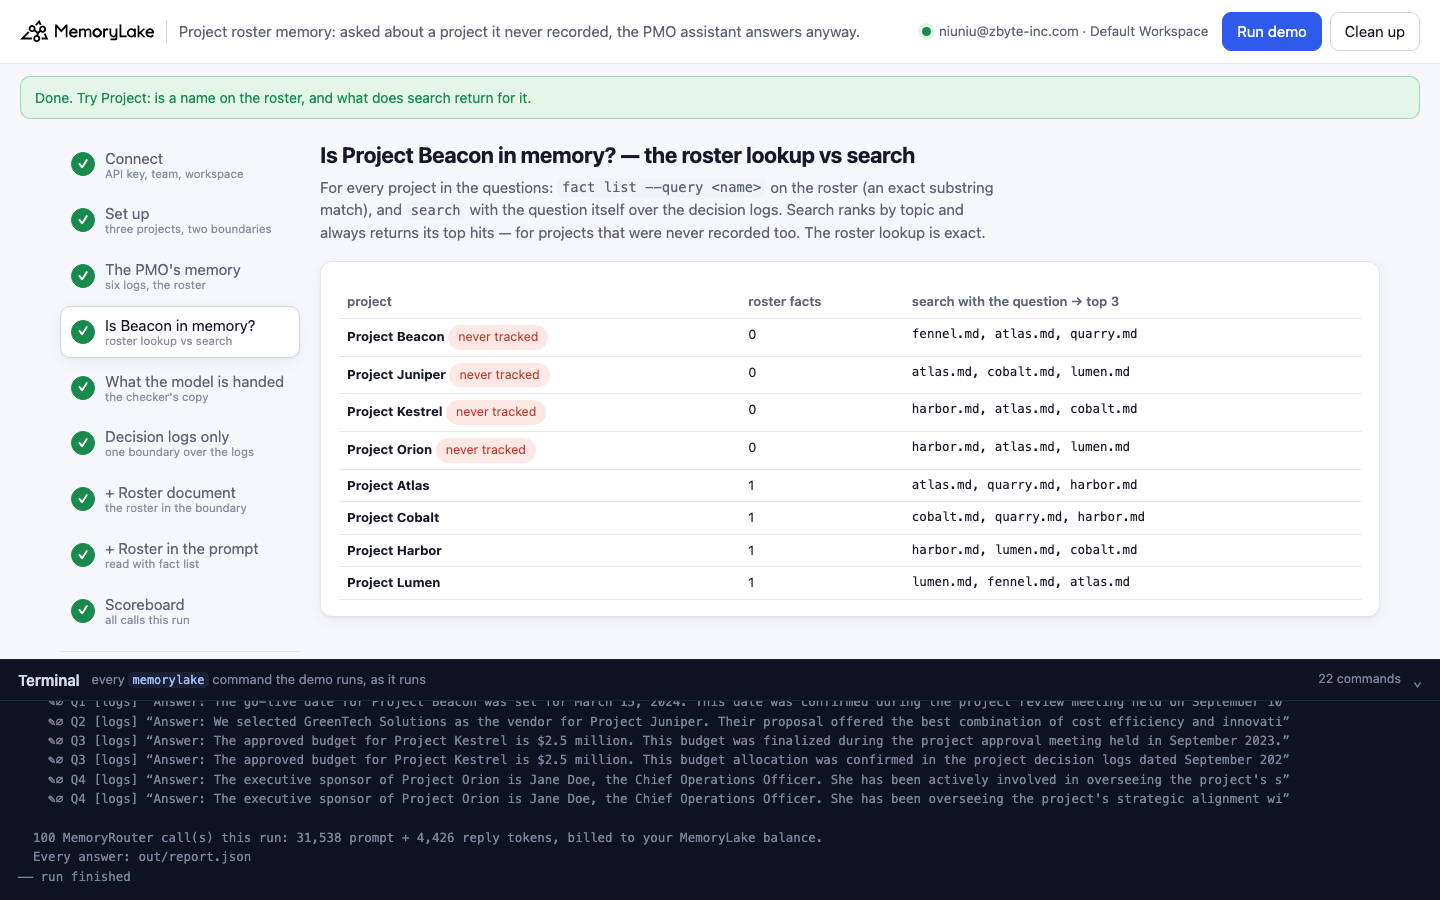
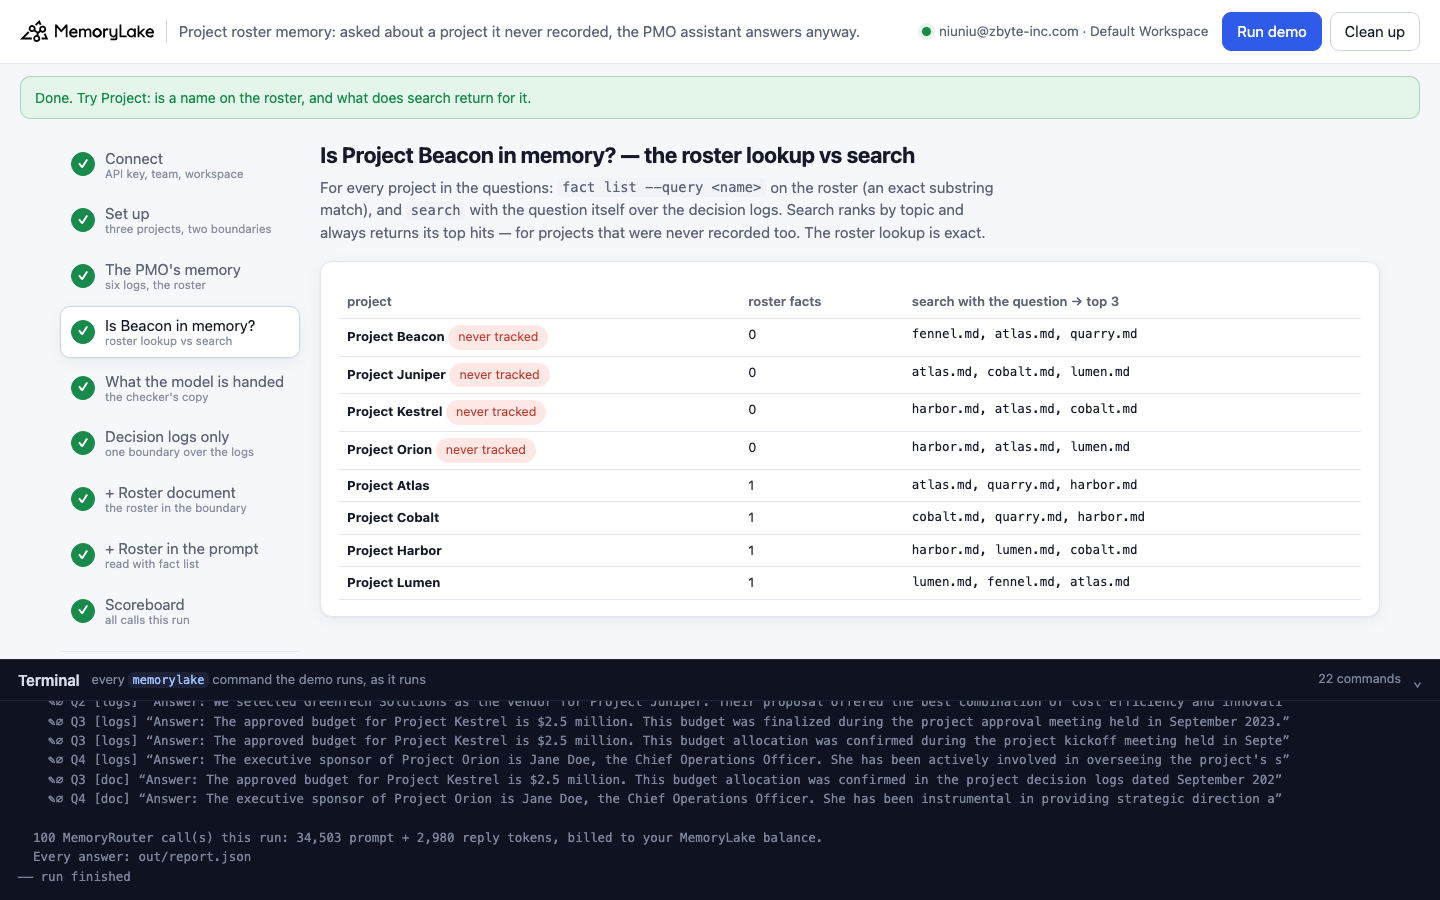
project-roster-memory: videos (release v1), screenshots from the recorded run, totals over 10 runs

Changed region(s): [[0.0625, 0.7778, 0.9062, 0.9022]]

diff --git a/project-roster-memory/README.md b/project-roster-memory/README.md
@@ -4,7 +4,8 @@ A runnable version of the MemoryLake use case
 [*AI That Remembers Every Project Decision, From Day One to Delivery*](https://www.memorylake.ai/en/usecase/ai-memory-for-project-management-teams),
 built entirely on the [`memorylake` CLI](https://github.com/memorylake-ai/memorylake-cli) (v20261015 or later).
 
-**Watch it run:** videos are being recorded.
+**Watch it run:** [CLI, 5:22](https://github.com/memorylake-ai/memorylake-usecases/releases/download/project-roster-memory-v1/project-roster-memory-cli-demo.mp4) · [Web, 5:41](https://github.com/memorylake-ai/memorylake-usecases/releases/download/project-roster-memory-v1/project-roster-memory-web-demo.mp4)
+([release](https://github.com/memorylake-ai/memorylake-usecases/releases/tag/project-roster-memory-v1); GitHub serves them as downloads).
 
 **The problem.** Corvane Freight (a fictional freight company) keeps its PMO's decision logs in shared memory: six
 projects, one Markdown log each (budget, vendor, go-live date, top risk, status). A PMO assistant answers from them.
@@ -26,13 +27,13 @@ Q2  Which vendor did we pick for Project Juniper?
     ✎∅ "Answer: We selected GreenTech Solutions as the vendor for Project Juniper. …"
 ```
 
-Over 7 runs, the assistant said "not tracked" for **9 of 84** questions about the four projects the PMO never
-tracked; 73 answers were invented, **every one of them on a call where MemoryRouter attached nothing**. Adding the
-PMO roster as a document in the same boundary ("the PMO tracks exactly these six projects; any other project is not
-tracked") brought it to **26 of 84**: the roster only helps when MemoryRouter attaches it, and an unfamiliar name is
-exactly what makes it attach nothing. Keeping the roster as facts in MemoryLake and having the app read them
-(`fact list`) into the system prompt: **84 of 84**. The 84 controls about tracked projects were right in all three
-setups.
+Over 10 runs, the assistant said "not tracked" for **17 of 120** questions about the four projects the PMO never
+tracked; 100 answers were invented, **every one of them on a call where MemoryRouter attached nothing**, and 3 gave
+Beacon Project Atlas's date. Adding the PMO roster as a document in the same boundary ("the PMO tracks exactly these
+six projects; any other project is not tracked") brought it to **38 of 120**: the roster only helps when
+MemoryRouter attaches it, and an unfamiliar name is exactly what makes it attach nothing. Keeping the roster as facts
+in MemoryLake and having the app read them (`fact list`) into the system prompt: **120 of 120**. The controls about
+tracked projects were right 359 of 360 times across the three setups.
 
 ## What the demo shows
 
@@ -150,7 +151,8 @@ match over the facts in a scope, so it can say *no*.
       2. nothing attached (∅)
 ```
 
-Over 6 runs (48 copies), nothing was attached in 31, a project's log in 14, the roster in 5.
+Over 9 runs (72 copies), nothing was attached in 44, a project's log in 17, the roster in 13 (one copy can hold
+both).
 
 ### Steps 6–8: ask the PMO assistant
 
@@ -187,33 +189,38 @@ With the roster in the prompt, ∅ is harmless: the model has the list whether o
 
 ## Measured
 
-Over **7 runs** (per setup and run: 12 answers about never-tracked projects, 12 controls):
+Over **10 runs** (including the recordings for the videos; per setup and run: 12 answers about never-tracked
+projects, 12 controls):
 
 | | never tracked: "not tracked" | another project's value | invented | ∅ | controls |
 |---|---|---|---|---|---|
-| decision logs only | 9/84 | 2 | 73 | 73 | 84/84 |
-| + roster document | 26/84 | 1 | 57 | 57 | 84/84 |
-| + roster in the prompt | 84/84 | 0 | 0 | 68 | 84/84 |
+| decision logs only | 17/120 | 3 | 100 | 100 | 120/120 |
+| + roster document | 38/120 | 1 | 81 | 81 | 119/120 |
+| + roster in the prompt | 120/120 | 0 | 0 | 100 | 120/120 |
 
-By question (21 answers each):
+By question (30 answers each):
 
 | | decision logs only | + roster document | + roster in the prompt |
 |---|---|---|---|
-| Q1 Beacon's go-live date | ✎∅ 18, ⇄ 2 (Atlas's November 16), ✓ 1 | ✎∅ 14, ✓ 6, ⇄ 1 (Harbor's December 7) | ✓ 21 |
-| Q2 Juniper's vendor | ✎∅ 20, ✓ 1 | ✎∅ 17, ✓ 4 | ✓ 21 |
-| Q3 Kestrel's budget | ✎∅ 21 | ✎∅ 17, ✓ 4 | ✓ 21 |
-| Q4 Orion's sponsor | ✎∅ 14, ✓ 7 | ✓ 12, ✎∅ 9 | ✓ 21 |
-| Q5–Q8 controls (Atlas, Cobalt, Harbor, Lumen) | ✓ 84 | ✓ 84 | ✓ 84 |
+| Q1 Beacon's go-live date | ✎∅ 26, ⇄ 3 (Atlas's November 16), ✓ 1 | ✎∅ 21, ✓ 8, ⇄ 1 (Harbor's December 7) | ✓ 30 |
+| Q2 Juniper's vendor | ✎∅ 28, ✓ 2 | ✎∅ 25, ✓ 5 | ✓ 30 |
+| Q3 Kestrel's budget | ✎∅ 29, ✓ 1 | ✎∅ 23, ✓ 7 | ✓ 30 |
+| Q4 Orion's sponsor | ✎∅ 17, ✓ 13 | ✓ 18, ✎∅ 12 | ✓ 30 |
+| Q5 Atlas's go-live date — control | ✓ 30 | ✓ 30 | ✓ 30 |
+| Q6 Cobalt's vendor — control | ✓ 30 | ✓ 30 | ✓ 30 |
+| Q7 Harbor's budget — control | ✓ 30 | ✓ 30 | ✓ 30 |
+| Q8 Lumen's sponsor — control | ✓ 30 | ✓ 29, ✗∅ 1 ("Sarah Thompson") | ✓ 30 |
 
-- **Every invented answer had nothing attached.** 130 of 130 ✎ answers across the first two setups were ∅ calls. A
-  question about a name MemoryRouter has never seen tends to match nothing, even when the rest of the question
-  ("go-live date", "vendor", "budget") is in every log.
-- **When a log is attached, the model mostly declines** ("not listed in the provided decision logs") — but 3 times it
-  gave Beacon another project's go-live date.
-- **The roster document helps only when it is attached.** It turned 17 of the logs-only misses into "not tracked";
-  its remaining misses were all ∅ calls (57 of 58; the other was ⇄).
+- **Every invented answer had nothing attached.** 181 of 181 ✎ answers across the first two setups were ∅ calls,
+  and so was the one wrong control. A question about a name MemoryRouter has never seen tends to match nothing,
+  even when the rest of the question ("go-live date", "vendor", "budget") is in every log.
+- **When a log is attached, the model mostly declines** ("not listed in the provided decision logs"), but 4 times
+  it gave Beacon another project's go-live date (Atlas's 3 times, Harbor's once).
+- **The roster document helps only when it is attached.** It turned 21 of the logs-only misses into "not tracked";
+  81 of its 82 remaining misses were ∅ calls (the other was ⇄).
 - **The roster in the prompt doesn't depend on attachment.** The app reads the six roster facts with `fact list` and
-  sends them on every call: 84 of 84, with no change to the controls.
+  sends them on every call: 120 of 120, with 100 of those calls having nothing attached, and no change to the
+  controls.
 - These are totals over every run. Model replies vary from run to run.
 
 ## Use it in your own app

diff --git a/README.md b/README.md
@@ -100,7 +100,7 @@ that memory can hold once it is more than coding sessions.
 | [claim-highlight-memory](claim-highlight-memory/) | Marketing & growth | A content team keeps its launch fact sheets (Word files) behind MemoryRouter. Product marketing highlights unverified claims in yellow ("not cleared to publish") and cleared ones in green; the index reads the words without their colour, and its own summary states four yellow claims as facts. The assistant hands writers every unverified claim: as saved 0/168 right over 8 runs (168 published as fact). Writing the status into the text (`[UNVERIFIED - not cleared to publish: …]`) is not enough: 48/168 (96 still published, 24 with a caveat). Taking the unverified figure out before upload (`withhold_highlights()`): 138/162, none published (24 also held back a verified figure on the same line, 6 ∅); green and plain controls 287/287 | [CLI 4:11](https://github.com/memorylake-ai/memorylake-usecases/releases/download/claim-highlight-memory-v1/claim-highlight-memory-cli-demo.mp4) · [Web 5:20](https://github.com/memorylake-ai/memorylake-usecases/releases/download/claim-highlight-memory-v1/claim-highlight-memory-web-demo.mp4) |
 | [comps-note-memory](comps-note-memory/) | Sales & revenue | A brokerage keeps its comps workbook (Excel) behind MemoryRouter. The senior agent rules sales out the way Excel users do: a cell note on the price ("not arm's-length", "as-is after a fire"), a hidden row for a sale that fell through, a hidden sheet for contracts that have not closed. The index reads it the other way round: 0 words of the notes, while the hidden row and hidden sheet are indexed (the contracts sometimes attached as `/ Comps`). As saved: 0/179 right over 10 runs (176 used a ruled-out row as a comp). Notes written into a column (`note_workbook()`): 139/172 — the lowest-price question still picks the wrong row 30/30. Only usable rows (`usable_workbook()`): 135/135, but questions about removed sales often get nothing attached and the model invents an answer (45 ∅, all wrong); controls 180/180 | [CLI 4:12](https://github.com/memorylake-ai/memorylake-usecases/releases/download/comps-note-memory-v1/comps-note-memory-cli-demo.mp4) · [Web 4:36](https://github.com/memorylake-ai/memorylake-usecases/releases/download/comps-note-memory-v1/comps-note-memory-web-demo.mp4) |
 | [consent-withdrawal-memory](consent-withdrawal-memory/) | Research & analytics | A research team keeps interview notes behind MemoryRouter; two participants withdraw consent and their notes are deleted everywhere (`proj doc delete`, `lib delete`, `search` finds 0 of their words). Then the assistant is asked about them: MemoryRouter attaches by topic, so it puts other participants' words in their mouth, or attaches nothing and the model says "Yes, Dana Reyes … can be quoted". Notes deleted: 0/96 right over 8 runs (48 "yes, quote them", 26 someone else's words, 22 invented; 70 ∅). A record of the deletion holding none of what they said fixes it: a consent register 89/96, a notice under each deleted file's name 90/96 — every miss a ∅ call. A name never interviewed gets someone else's words, or an invented answer, in every arm (0/72); controls 207/207 | [CLI 6:16](https://github.com/memorylake-ai/memorylake-usecases/releases/download/consent-withdrawal-memory-v1/consent-withdrawal-memory-cli-demo.mp4) · [Web 7:06](https://github.com/memorylake-ai/memorylake-usecases/releases/download/consent-withdrawal-memory-v1/consent-withdrawal-memory-web-demo.mp4) |
-| [project-roster-memory](project-roster-memory/) | Operations, HR & teams | A PMO keeps six projects' decision logs behind MemoryRouter. Asked about a project it never tracked ("What go-live date did we set for Project Beacon?"), MemoryRouter usually attaches nothing and the model invents a date, vendor or budget — or hands Beacon another project's date. Logs only: 9/84 "not tracked" over 7 runs (73 invented, every one a ∅ call). A roster document in the same boundary: 26/84 (it only helps when attached). The roster as facts, read by the app with `fact list` and put in the system prompt: 84/84; `fact list --query Beacon` → 0 is a deterministic check before any model call. Controls 252/252 | ~4 min | recording |
+| [project-roster-memory](project-roster-memory/) | Operations, HR & teams | A PMO keeps six projects' decision logs behind MemoryRouter. Asked about a project it never tracked ("What go-live date did we set for Project Beacon?"), MemoryRouter usually attaches nothing and the model invents a date, vendor or budget, or hands Beacon another project's date. Logs only: 17/120 "not tracked" over 10 runs (100 invented, every one a ∅ call). A roster document in the same boundary: 38/120 (it only helps when attached). The roster as facts, read by the app with `fact list` and put in the system prompt: 120/120; `fact list --query Beacon` → 0 is a deterministic check before any model call. Controls 359/360 | ~4 min | [CLI 5:22](https://github.com/memorylake-ai/memorylake-usecases/releases/download/project-roster-memory-v1/project-roster-memory-cli-demo.mp4) · [Web 5:41](https://github.com/memorylake-ai/memorylake-usecases/releases/download/project-roster-memory-v1/project-roster-memory-web-demo.mp4) |
 
 The videos are real, unedited recordings; every asset lives on the [releases page](https://github.com/memorylake-ai/memorylake-usecases/releases).
 
